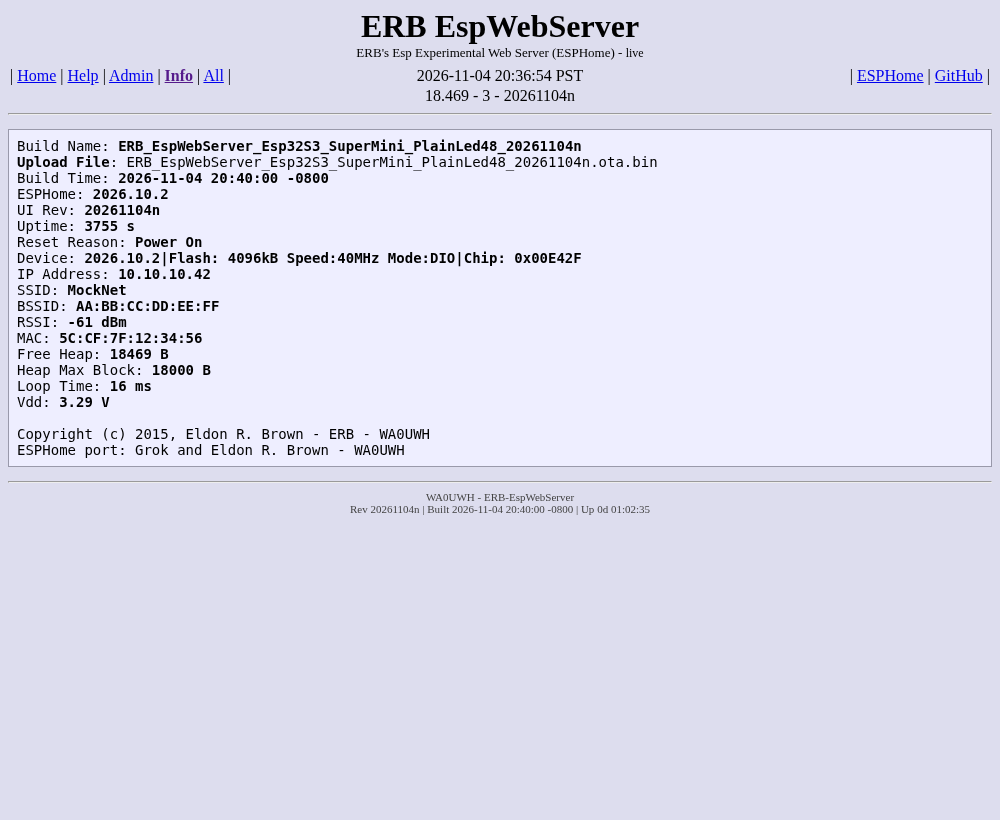
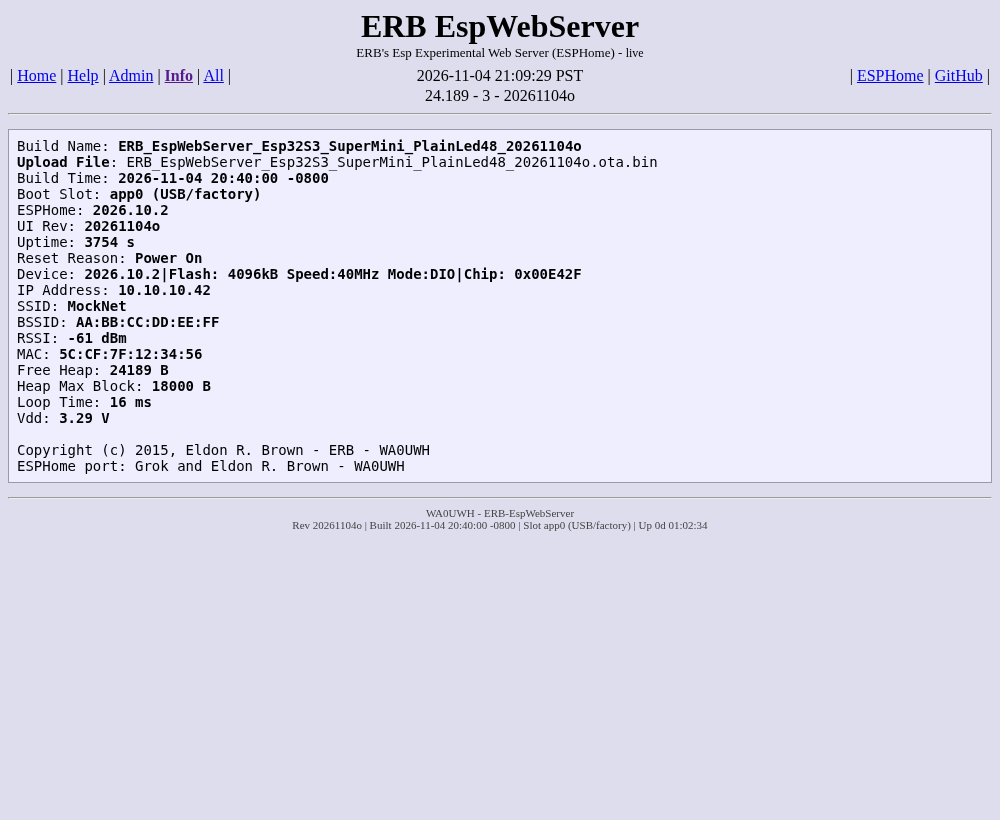
ESPHome Rev 20261104o: show boot slot (USB/factory vs OTA)

Changed region(s): [[0.0, 0.2134, 0.992, 0.6707], [0.496, 0.0915, 0.558, 0.122], [0.434, 0.0915, 0.465, 0.122]]

diff --git a/esphome/www/erb_ui.js b/esphome/www/erb_ui.js
@@ -1,11 +1,11 @@
 // Authors: Grok and Eldon R. Brown - WA0UWH
-// Rev: 20261104n
+// Rev: 20261104o
 // ERB_UI - custom multi-page UI for the standalone ESPHome ERB-EspWebServer.
 // Recreates the 2015 Home / Help / Admin / Info pages + Navigator, from flash, no internet.
 // Data: /events SSE ("state" events, id = "<domain>/<Entity Name>"); actions: REST POST.
 (function () {
   var Hist_Min = 30, Hist = [], S = {}, Page = 'home', Hits = 0;
-  var Rev = '20261104n';
+  var Rev = '20261104o';
   var Cmt = '';   // esphome comment (= Build_Name) from the /events ping config: fallback if Build Name state is empty
   var css = 'body{background:#ddddee;font-family:Times New Roman,serif;margin:8px;color:#000}' +
     'h1{text-align:center;margin:4px}h1 small{font-size:13px;font-weight:normal;display:block}' +
@@ -90,7 +90,7 @@
         '<div class="Ctr" style="font-size:12px;margin-top:6px">Firmware: <span id="homeFw">--</span></div>';
     },
     info: function () {
-      return '<pre>' + Row('Build Name', 'text_sensor/Build Name') + '<b>Upload File</b>: <span id="infoFile">--</span>\n' + Row('Build Time', 'text_sensor/Build Time') + Row('ESPHome', 'text_sensor/ESPHome Version') + Row('UI Rev', 'x/rev') + Row('Uptime', 'sensor/Uptime') +
+      return '<pre>' + Row('Build Name', 'text_sensor/Build Name') + '<b>Upload File</b>: <span id="infoFile">--</span>\n' + Row('Build Time', 'text_sensor/Build Time') + (S['text_sensor/Boot Slot'] ? Row('Boot Slot', 'text_sensor/Boot Slot') : '') + Row('ESPHome', 'text_sensor/ESPHome Version') + Row('UI Rev', 'x/rev') + Row('Uptime', 'sensor/Uptime') +
         Row('Reset Reason', 'text_sensor/Reset Reason') + Row('Device', 'text_sensor/Device Info') +
         Row('IP Address', 'text_sensor/IP Address') + Row('SSID', 'text_sensor/Connected SSID') + Row('BSSID', 'text_sensor/Connected BSSID') +
         Row('RSSI', 'sensor/WiFi Signal') + Row('MAC', 'text_sensor/MAC Address') + Row('Free Heap', 'sensor/Free Heap') +
@@ -113,6 +113,7 @@
         '<b>REST (like the old /t/redled, /q/... links):</b>\n  POST /switch/Red LED/toggle     = Toggle Red Led\n  POST /switch/Red LED/turn_on    = Turn Red Led ON\n' +
         '  POST /switch/Red LED/turn_off   = Turn Red Led OFF\n  GET  /sensor/Free Heap          = Free Heap (JSON)\n  GET  /text_sensor/IP Address    = IP (JSON)\n' +
         '  GET  /events                    = Live event stream\n\nAll pages update live; no refresh or slider needed.\n' +
+        '<b>Boot Slot</b> (ESP32): app0/app1 = flash slot running now.\n  (USB/factory) = factory .bin written over USB at 0x0 (it blanks otadata)\n  (OTA)         = got there by an OTA upload; a 2nd OTA lands back in app0\n  Writing only an .ota.bin over USB (at 0x10000) is NOT detected as USB.\n\n' +
         'mDNS name: <b>' + Esc(location.hostname) + '</b></pre>';
     },
     all: function () {
@@ -141,6 +142,7 @@
     if ($('homeFw')) $('homeFw').textContent = bn ? bn + '.factory.bin / .ota.bin' : '--';
     var bt = V('text_sensor/Build Time'), up = N('sensor/Uptime');
     if ($('ftTime')) $('ftTime').textContent = (bt && bt != '--') ? bt : '--';
+    var sl = V('text_sensor/Boot Slot'); if ($('ftSlot')) $('ftSlot').textContent = (sl && sl != '--') ? sl : '--';
     if ($('ftUp')) $('ftUp').textContent = isNaN(up) ? '--' : (function (t) { t = Math.floor(t); function P(n) { return (n < 10 ? '0' : '') + n; } return Math.floor(t / 86400) + 'd ' + P(Math.floor(t / 3600) % 24) + ':' + P(Math.floor(t / 60) % 60) + ':' + P(t % 60); })(up);
     if ($('infoFile')) $('infoFile').textContent = bn ? bn + '.ota.bin' : '--';
     SetInst('gHeap', fh, isNaN(fh) ? '--' : fh.toFixed(1));
@@ -218,7 +220,7 @@
   }
   function Start() {
     document.body.innerHTML = '<h1 id="erbTitle">ERB EspWebServer<small>ERB\'s Esp Experimental Web Server (ESPHome) - <span id="Conn">connecting</span></small></h1>' +
-      '<div id="erbNav"></div><hr><div id="erbPage"></div><hr><div class="Ctr" style="font-size:11px;color:#444">WA0UWH - ERB-EspWebServer<br>Rev ' + Rev + ' | Built <span id="ftTime">--</span> | Up <span id="ftUp">--</span></div>';
+      '<div id="erbNav"></div><hr><div id="erbPage"></div><hr><div class="Ctr" style="font-size:11px;color:#444">WA0UWH - ERB-EspWebServer<br>Rev ' + Rev + ' | Built <span id="ftTime">--</span> | Slot <span id="ftSlot">--</span> | Up <span id="ftUp">--</span></div>';
     S['x/rev'] = { state: Rev };
     Show('home'); Connect(); setInterval(Tick, 1000); setInterval(DrawLine, 10000);
   }

diff --git a/esphome/mock/Mock_Server.js b/esphome/mock/Mock_Server.js
@@ -1,18 +1,18 @@
 // Authors: Grok and Eldon R. Brown - WA0UWH
-// Rev: 20261104n
+// Rev: 20261104o
 // Mock_Server - fakes the ESPHome v3 web_server (index, /0.js, /events SSE, POST actions)
 // (basic auth guest:grest only when MOCK_AUTH=1) so www/erb_ui.js can be tested in a browser. Usage: node Mock_Server.js [port]
 const http = require('http'), fs = require('fs'), path = require('path');
 const Port = +process.argv[2] || 8099;
 const JS = path.join(__dirname, '..', 'www', 'erb_ui.js');
-// 20261104n: match the real device. Build Name/Time are ''-state unless the firmware publishes them
+// 20261104o: match the real device. Build Name/Time are ''-state unless the firmware publishes them
 // (rev l and older: never published -> MOCK_BUILD_TS=0). ping carries esphome comment = Build_Name (rev m+; MOCK_COMMENT=0 = rev l).
-const BuildName = process.env.MOCK_NO_LEDS ? 'ERB_EspWebServer_Esp32S3_SuperMini_PlainLed48_20261104n' : 'ERB_EspWebServer_Esp8266_NodeMcu_20261104n';
+const BuildName = process.env.MOCK_NO_LEDS ? 'ERB_EspWebServer_Esp32S3_SuperMini_PlainLed48_20261104o' : 'ERB_EspWebServer_Esp8266_NodeMcu_20261104o';
 const Pub = process.env.MOCK_BUILD_TS !== '0', Cmt = process.env.MOCK_COMMENT !== '0' ? BuildName : '';
 const S = {
   'sensor/Free Heap': [23456, '23456 B'], 'sensor/Vdd': [3.29, '3.29 V'], 'sensor/WiFi Signal': [-61, '-61 dBm'],
   'sensor/Uptime': [3725, '3725 s'], 'sensor/Heap Max Block': [18000, '18000 B'], 'sensor/Loop Time': [16, '16 ms'],
-  'text_sensor/ESPHome Version': [null, '2026.10.2'], 'text_sensor/Build Name': [null, Pub ? BuildName : ''], 'text_sensor/Build Time': [null, Pub ? '2026-11-04 20:40:00 -0800' : ''], 'text_sensor/Reset Reason': [null, 'Power On'],
+  'text_sensor/ESPHome Version': [null, '2026.10.2'], 'text_sensor/Build Name': [null, Pub ? BuildName : ''], 'text_sensor/Build Time': [null, Pub ? '2026-11-04 20:40:00 -0800' : ''], 'text_sensor/Boot Slot': [null, process.env.MOCK_SLOT || 'app0 (USB/factory)'], 'text_sensor/Reset Reason': [null, 'Power On'],
   'text_sensor/Device Info': [null, '2026.10.2|Flash: 4096kB Speed:40MHz Mode:DIO|Chip: 0x00E42F'],
   'text_sensor/IP Address': [null, '10.10.10.42'], 'text_sensor/Connected SSID': [null, 'MockNet'],
   'text_sensor/Connected BSSID': [null, 'AA:BB:CC:DD:EE:FF'], 'text_sensor/MAC Address': [null, '5C:CF:7F:12:34:56'],

diff --git a/esphome/mock/Shoot_Tabs.js b/esphome/mock/Shoot_Tabs.js
@@ -1,5 +1,5 @@
 // Authors: Grok and Eldon R. Brown - WA0UWH
-// Rev: 20261104n
+// Rev: 20261104o
 // Shoot_Tabs - headless screenshots of each ERB UI tab against Mock_Server.js.
 const puppeteer = require('/workspace/repos/grok-voice-reader-extension/chrome-extension/node_modules/puppeteer-core');
 const Out = require('path').join(__dirname, '..', 'screens') + (process.env.MOCK_NO_LEDS ? '/PlainLed48' : '');
@@ -18,7 +18,7 @@ require('fs').mkdirSync(Out, { recursive: true });
   let n = 2;
   for (const t of ['info', 'admin', 'help', 'all']) {
     await p.click(`[data-pg="${t}"]`); await new Promise(r => setTimeout(r, 700));
-    if (t == 'info') console.log('INFO', await p.$eval('#infoFile', e => e.textContent), '|', (await p.$eval('#erbPage', e => e.innerText)).split('\n').filter(l => /Build/.test(l)).join(' / '));
+    if (t == 'info') console.log('INFO', await p.$eval('#infoFile', e => e.textContent), '|', (await p.$eval('#erbPage', e => e.innerText)).split('\n').filter(l => /Build|Boot Slot/.test(l)).join(' / '));
     if (t == 'admin') console.log('RUNNING', await p.$eval('#otaF', e => e.innerText.split('Running:')[1]));
     await p.screenshot({ path: `${Out}/${n++}_${t[0].toUpperCase() + t.slice(1)}.png`, fullPage: true });
   }
@@ -26,7 +26,7 @@ require('fs').mkdirSync(Out, { recursive: true });
   await p.click(`[data-pg="home"]`); await p.click('[data-led="Heartbeat"]'); await new Promise(r => setTimeout(r, 500));
   await p.click(`[data-pg="admin"]`);
   const Dlg = []; p.on('dialog', d => Dlg.push(d.message().split('\n')[0]));
-  const Fw = '/tmp/ERB_EspWebServer_Esp32S3_SuperMini_PlainLed48_20261104n.ota.bin'; require('fs').writeFileSync(Fw, Buffer.alloc(4096, 7));
+  const Fw = '/tmp/ERB_EspWebServer_Esp32S3_SuperMini_PlainLed48_20261104o.ota.bin'; require('fs').writeFileSync(Fw, Buffer.alloc(4096, 7));
   await (await p.$('#otaFile')).uploadFile(Fw);
   console.log('CHOSEN', await p.$eval('#otaName', e => e.textContent));
   await p.click('#otaF button'); await new Promise(r => setTimeout(r, 1000));

diff --git a/esphome/common/erb_boot_slot.h b/esphome/common/erb_boot_slot.h
@@ -1,0 +1,17 @@
+// Authors: Grok and Eldon R. Brown - WA0UWH
+// Rev: 20261104o
+// erb_boot_slot - "app0 (USB/factory)" / "app1 (OTA)" etc. for the Boot Slot text_sensor (ESP32 only).
+// Method: a USB factory image written at 0x0 covers otadata (0x9000-0xAFFF) with 0xFF, so otadata has no valid
+// entry -> esp_ota_get_state_partition() = ESP_ERR_NOT_FOUND -> USB/factory. Every OTA (ESPHome web/OTA,
+// esp_ota_set_boot_partition) writes a CRC-valid otadata entry for the slot it boots -> ESP_OK -> OTA.
+#pragma once
+#include <string>
+#include "esp_ota_ops.h"
+inline std::string erb_boot_slot() {
+  const esp_partition_t *p = esp_ota_get_running_partition();
+  if (p == nullptr) return "unknown";
+  esp_ota_img_states_t st;
+  bool ota = esp_ota_get_state_partition(p, &st) == ESP_OK;
+  return std::string(p->label) + (ota ? " (OTA)" : " (USB/factory)");
+}
+// End

diff --git a/esphome/NOTES.md b/esphome/NOTES.md
@@ -129,3 +129,14 @@
 ## 2026-11-04 8:40 PM PST - Rev 20261104n: footer drops repeated firmware name
 - Eldon confirmed rev m on hardware (Home firmware line + footer show real values). Per his marked screenshot: footer second line now "Rev <Rev> | Built <Build Time> | Up d hh:mm:ss" (removed "Firmware <Build Name> |"); "WA0UWH - ERB-EspWebServer" kept. Home "Firmware: <name>.factory.bin / .ota.bin" line unchanged. Nothing else changed.
 - Mock checked (no JS errors), screens/PlainLed48/ refreshed. Log flash/Build_20261104n.log: 0 warnings. Bins (600): _20261104n.factory.bin 935296 B, .ota.bin 869760 B. First 64 KB == m. Credentials baked in. NodeMCU + S3 base compile OK (no bins). PlainLed48 compiled last.
+
+## 2026-11-04 8:59 PM PST - Rev 20261104n confirmed on the board
+- Eldon: rev n is working as expected on the HW-747 (PlainLed48). This is the current known-good rev.
+
+## 2026-11-04 9:12 PM PST - Rev 20261104o: Boot Slot readout (USB/factory vs OTA)
+- Eldon confirmed rev n works (factory flash and OTA). New common/ERB_BootSlot.yaml + common/erb_boot_slot.h (S3 files only; NodeMCU untouched, still compiles). Template text_sensor "Boot Slot", published in on_boot (priority -100) and every 60 s.
+- Value: esp_ota_get_running_partition()->label + " (OTA)" if esp_ota_get_state_partition(running) == ESP_OK, else " (USB/factory)".
+- Why it is reliable (IDF 5.5.6 esp_ota_ops.c:1025): get_state_partition returns ESP_OK only if a CRC-valid otadata entry selects that slot. The factory.bin written at 0x0 covers otadata 0x9000-0xAFFF with 0xFF (checked in the bin) -> no valid entry -> USB/factory. Every OTA (esp_ota_set_boot_partition) writes a valid entry -> OTA, including the 2nd OTA landing back in app0 ("app0 (OTA)"). No NVS flag needed, so a USB re-flash of the SAME build is reported correctly (USB/factory).
+- Limits: writing only the .ota.bin over USB at 0x10000 (no otadata rewrite) after an earlier OTA is reported as OTA (and the bootloader may still boot the other slot). erase_flash, then factory = USB/factory. Help tab explains app0/app1.
+- UI: footer "Rev | Built | Slot <value> | Up"; Info row "Boot Slot" (shown when the device sends it). Mock: MOCK_SLOT (default "app0 (USB/factory)"), checked "app1 (OTA)" and "app0 (USB/factory)", no JS errors; screens/PlainLed48/ refreshed (USB/factory).
+- Log flash/Build_20261104o.log: 0 warnings. Bins (600): _20261104o.factory.bin 935936 B, .ota.bin 870400 B. First 64 KB == n. Credentials baked in. NodeMCU + S3 base compile OK (no bins). PlainLed48 compiled last.
